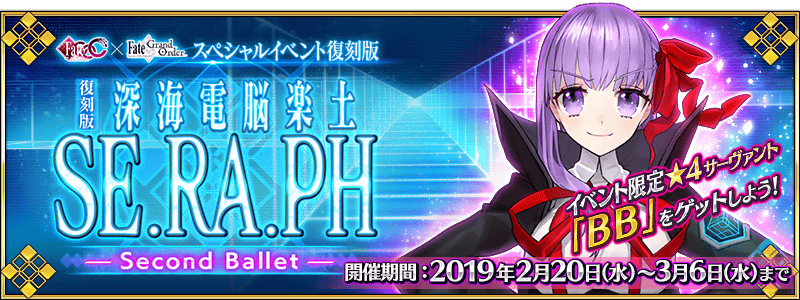
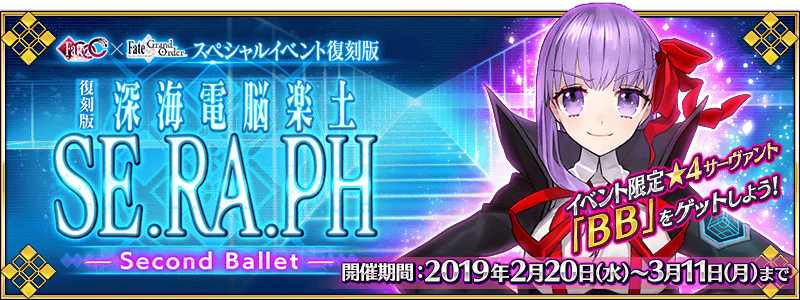
0304dlkai

diff --git a/event_re_extraccc.html b/event_re_extraccc.html
@@ -82,6 +82,13 @@
     background-color: #828282;
     border: none;
 }
+
+.attention_02{
+
+    padding: 1em 1em 0 1em;
+    border: solid 1.5px #DB0003;
+    margin: 10px;
+}
 </style>
 </head>
 <body onload="loadsidebar();">
@@ -118,7 +125,7 @@
 <div>
 <p>
 <span class="diamond">◆</span><span class="strong">活動舉辦期間</span><span class="diamond">◆</span><br/>
-<span class="em01">2019年2月20日(三) 17:00(預定)～3月6日(三) 11:59</span>
+<span class="em01">2019年2月20日(三) 17:00(預定)～<s>3月6日(三)</s> 3月11日(一) 11:59<br/>※3/4(一) 17:00修正</span>
 </p>
 <p>
 <span class="diamond">◆</span><span class="strong">活動概要</span><span class="diamond">◆</span><br/>
@@ -188,36 +195,36 @@
 自由關卡	
 </td>
 <td>2月20日(三) 17:00(預定)～
-<br/>3月6日(三) 11:59
+<br/><s>3月6日(三)</s> 3月11日(一) 11:59
 </td>
 </tr>
 <tr>
 <td>主線關卡第二幕<br/>
 自由關卡</td>
-<td>2月22日(五) 17:00～<br/>3月6日(三) 11:59
+<td>2月22日(五) 17:00～<br/><s>3月6日(三)</s> 3月11日(一) 11:59
 </td>
 </tr>
 <tr>
 <td>主線關卡第三幕<br/>
 自由關卡</td>
-<td>2月24日(日) 17:00～<br/>3月6日(三) 11:59
+<td>2月24日(日) 17:00～<br/><s>3月6日(三)</s> 3月11日(一) 11:59
 </td>
 </tr>
 <tr>
 <td>主線關卡第四幕～終幕<br/>自由關卡</td>
-<td>2月25日(一) 17:00～<br/>3月6日(三) 11:59
+<td>2月25日(一) 17:00～<br/><s>3月6日(三)</s> 3月11日(一) 11:59
 </td>
 </tr>
 <tr>
 <td>主線關卡後半<br/>自由關卡</td>
-<td>3月1日(五) 17:00～<br/>3月6日(三) 11:59
+<td>3月1日(五) 17:00～<br/><s>3月6日(三)</s> 3月11日(一) 11:59
 </td>
 </tr>
 </tbody>
 </table>
 </div>
 <div class="em01">
-<p>
+<p>※3/4(一) 17:00修正<br/><br/>
 <span class="notice">自2019年3月1日(五) 17:00會開放新的關卡與任務。</span><br/>
 新關卡與任務的開放條件為通過主線關卡至最後。
 </p>
@@ -308,7 +315,7 @@ BB拉霸會根據隨機連線的圖案，<span class="notice">在戰鬥賦予各
 <div>
 <p>
 <span class="diamond">◆</span><span class="strong">舉辦期間</span><span class="diamond">◆</span><br/>
-<span class="em01">2019年2月20日(三) 17:00(預定)～3月6日(三) 11:59</span>
+<span class="em01">2019年2月20日(三) 17:00(預定)～<s>3月6日(三)</s> 3月11日(一) 11:59<br/>※3/4(一) 17:00修正</span>
 </p>
 </div>
 <p>
@@ -460,7 +467,12 @@ BB拉霸會根據隨機連線的圖案，<span class="notice">在戰鬥賦予各
 <td>1個</td>
 </tr>
 <tr>
-<td bgcolor="#ECF2F3" rowspan="3">Alterego</td>
+<td bgcolor="#ECF2F3" rowspan="4">Alterego</td>
+<td class="servant_star">★★★★★</td>
+<td>帝王花</td>
+<td><span class="notice">2個</span></td>
+</tr>
+<tr>
 <td class="servant_star">★★★★★</td>
 <td>殺生院祈荒</td>
 <td><span class="notice">2個</span></td>
@@ -491,6 +503,7 @@ BB拉霸會根據隨機連線的圖案，<span class="notice">在戰鬥賦予各
 </div>
 <div class="em01">
 <p>
+<span class="indent">※2/27(三) 17:00更新</span>
 <span class="indent notice">
 ※就算成為對象Servant，也會有不在本活動主線劇本登場的情況。	
 </span>
@@ -553,12 +566,22 @@ BB拉霸會根據隨機連線的圖案，<span class="notice">在戰鬥賦予各
 <div>
 <p>
 <span class="diamond">◆</span><span class="strong">交換期間</span><span class="diamond">◆</span><br/>
-<span class="em01 notice">2019年2月20日(三) 17:00(預定)～3月13日(三) 11:59</span>
-<span class="em01">
+<span class="em01 notice">2019年2月20日(三) 17:00(預定)～<s>3月13日(三)</s> 3月18日(一) 11:59</span>
+<span class="em01">※3/4(一) 17:00修正<br/>
 <span class="indent">
 ※活動道具交換期間結束後「櫻硬幣」會消失。
 </span>
 </span>
+</p>
+</div>
+<div class="attention_02">
+<p>
+<span class="notice">【2月20日(三) 17:00追記】</span> <br/>
+確認到能用櫻硬幣交換道具的交換期間，沒有顯示上述3月18日(一) 11:59為止剩餘天數，而是顯示做為活動結束期間3月11日(一) 11:59為止剩餘天數的問題。
+</p>
+<p>
+<span class="indent">※能用櫻硬幣交換的道具以外的本活動専用關鍵道具，是在2019年3月11日(一) 11:59結束交換期間。</span><br/>
+※3/4(一) 17:00修正
 </p>
 </div>
 <div>
@@ -936,6 +959,27 @@ Code・Remover<br/>
 <p><img alt="" src="common/images/2019/re_extraccc_full_psruz/info_image_15.png"/></p>
 <br/>
 <!--/block-->
+<p class="heading" id="ttl17"><img alt="" src="common/images/2019/re_extraccc_full_psruz/midashi_b_05.png"/></p>
+<div class="em01">
+<p>
+【2月20日(三) 17:00追記】<br/>
+舉辦復刻活動中的「Fate/Grand Order -Epic of Remnant- 深海電腦樂土 SE.RA.PH」的漫畫在ヤングエースUP(KADOKAWA)開始配信！
+</p>
+<p>
+第0話在ヤングエースUP公開中！<br/>
+並且第1話預定2月26日(二)配信！	
+</p>
+</div>
+<p><img alt="" src="common/images/2019/re_extraccc_full_psruz/info_image_16.png"/></p>
+<p><img alt="" src="common/images/2019/re_extraccc_full_psruz/info_image_17.png"/></p>
+<div class="em01">
+<p>
+<span class="indent">■ヤングエースUP 「Fate/Grand Order -Epic of Remnant- 深海電腦樂土 SE.RA.PH」漫畫</span>
+<a href="https://web-ace.jp/special/youngaceup/contents/20190220/" target="_blank">https://web-ace.jp/special/youngaceup/contents/20190220/</a>
+</p>
+</div>
+<br/>
+<!--/block-->
 <hr/>
 <div class="em01">
 <p>
@@ -943,7 +987,8 @@ Code・Remover<br/>
 關於詳情請自下述橫幅確認。	
 </p>
 </div>
-<p><a href="gacha_re_extraccc_pu.html"><img alt="" src="common/images/2019/re_extraccc_pu_hgpca/summon_banner.png"/></a></p>
+<p><a href="gacha_re_extraccc_pu.html"><img alt="" src="common/images/2019/re_extraccc_pu_hgpca/summon_banner.png"/></a><br>
+<span class="em01">【3月4日(一) 17:00圖片更新】</span></p>
 </article>
 </div>
 <div id="gotop"><a href="#"><img src="common/images/btn_gotop_off.jpg" width="47" height="47" alt="返回頂端" /></a></div>

diff --git a/news_190304.html b/news_190304.html
@@ -4,7 +4,7 @@
 <meta http-equiv="Content-Type" content="text/html; charset=utf-8" />
 <meta name="description" content="Fate/Grand Order台灣中文資料站" />
 <meta name="keywords" content="Fate/Grand Order,FGO,Fate/GO,TYPE-MOON,Fate,Saber,Archer,Lancer,Rider,Caster,Assassin,Berserker,Shielder,Ruler" />
-<title>關於能用2月交換券(2019)交換的道具</title>
+<title>現在舉辦中的特別活動「復刻版:深海電腦樂土 SE.RA.PH -Second Ballet-」舉辦期間延長公告</title>
 <link rel="icon" href="favicon.ico" type="image/vnd.microsoft.icon">
 <link href="common/css/common.css" rel="stylesheet" type="text/css" />
 <link href="common/css/detail_info.css" rel="stylesheet" type="text/css" />
@@ -34,21 +34,30 @@
     <!--主要內容區塊開始-->
     <div id="div_content"><div class="container">
 <article class="content textsize" style="width:840px">
-<h1 class="headline3"><dl><dt class="date">1/31</dt><dd>關於能用2月交換券(2019)交換的道具</dd></dl></h1>
-<p>告知關於能用連續登入獎勵的2月交換券(2019)交換的道具。</p>
-<p>◆2月交換券(2019)配發期間◆<br/>
-2019年2月1日(五) AM3:00～2019年3月1日(五) AM2:59</p>
-<p>◆2月交換券(2019)的使用･領取期間◆<br/>
-2019年5月31日(五) 22:59<br/>
-※另外，請注意1月交換券(2019)的使用･領取期間為2018年4月30日(二) 22:59。</p>
-<p>◆能交換道具◆<br/>
-・禁斷書頁<br/>
-・兇骨<br/>
-・勵振火藥</p>
-<p>※請注意交換券有使用･領取期間。<br/>
-※能選擇的3種類素材每月替換。<br/>
-※如果持有數張相同月份的「交換券」，可以一起交換。<br/>
-※如果跨月自禮物箱領取前一個月的「交換券」，能獲得的素材會是「交換券」記載月份的對象素材。</p>
+<h1 class="headline3"><dl><dt class="date">3/4</dt><dd>現在舉辦中的特別活動「復刻版:深海電腦樂土 SE.RA.PH -Second Ballet-」舉辦期間延長公告</dd></dl></h1>
+<p>非常感謝您的使用。<br/> 
+這裡是「Fate/Grand Order」營運團隊。</p>
+
+<p>關於特別活動「復刻版:深海電腦樂土 SE.RA.PH -Second Ballet-」，有鑑於預訂下次舉的施策開發狀況，延長本活動的舉辦期間如下。</p>
+<p>■舉辦期間<br/>
+2019年2月20日(三) 17:00～<font color="#FF0000">3月11日(一) 11:59</font><br/>
+※遊戲內的顯示中，會有未變更結束時間的情況。<br/>
+　關於此處，會依序對應。</p>
+<p>※詳情請在特別活動「復刻版:深海電腦樂土 SE.RA.PH -Second Ballet-」的公告確認。<br/>
+<span class="strong"><a href="https://news.fate-go.jp/2019/re_extraccc/" target="_blank">https://news.fate-go.jp/2019/re_extraccc/</a></span></p>
+<p>對上述舉辦期間變更感到抱歉，會向對象的玩家做出以下對應。</p>
+<p>【對象】<br/>
+2019年3月4日(一) 16:59前有遊玩過「Fate/Grand Order」的所有玩家</p>
+<p>【對應內容】<br/>
+・聖晶石 3個<br/>
+・黃金果實 3個</p>
+<p>【配發方法】<br/>
+配發至禮物箱</p>
+<p>【配發期間】<br/>
+2019年3月5日(二) AM3:00～2019年8月31日(六) 22:59</p>
+<p>使用的各位玩家，在活動結束即將結束前突然變更舉辦期間，抱歉帶來不便。</p>
+
+<p>今後也請多多指教「Fate/Grand Order」。</p>
 </article>
 </div>
 <div id="gotop"><a href="#"><img src="common/images/btn_gotop_off.jpg" width="47" height="47" alt="返回頂端" /></a></div>

diff --git a/index.html b/index.html
@@ -69,7 +69,7 @@ $(function(){
 </p></dd></dl>
 
 <dl class="accordion"><dt class="act">
-<h1 class="headline5"><dl><dt class="date">★☆★</dt><dd>本週Master任務(2/17 23:00～2/24 22:59)<span class="arrowAC">&nbsp;</span></dd></dl></h1>
+<h1 class="headline5"><dl><dt class="date">★☆★</dt><dd>本週Master任務(3/4 23:00～3/10 22:59)<span class="arrowAC">&nbsp;</span></dd></dl></h1>
 </dt><dd class="acd"><p>
 <table class="tablesorter" style="width:95%">
 <tr><th>任務</th><th>獎勵</th></tr>
@@ -77,15 +77,15 @@ $(function(){
 </td><td><div class="itemST" style="background-image: url('common/images/icon/items/16.png')" title="聖晶片">x3</div></td></tr>
 <tr><td>No.2：執行30次友情點數召喚
 </td><td><div class="itemST" style="background-image: url('common/images/icon/items/16.png')" title="聖晶片">x3</div></td></tr>
-<tr><td>No.3：擊倒任15名『Saber』『Caster』職階的敵人(Servant及一部份Boss除外)
+<tr><td>No.3：擊倒8位Servant
 </td><td><div class="itemST" style="background-image: url('common/images/icon/items/16.png')" title="聖晶片">x3</div></td></tr>
-<tr><td>No.4：擊倒任15名『Archer』『Assassin』職階的敵人(Servant及一部份Boss除外)
+<tr><td>No.4：擊倒任15名『Saber』『Archer』『Lancer』職階的敵人(Servant及一部份Boss除外)
 </td><td><div class="itemST" style="background-image: url('common/images/icon/items/16.png')" title="聖晶片">x3</div></td></tr>
-<tr><td>No.5：擊倒任15名『Lancer』『Rider』『Berserker』職階的敵人(Servant及一部份Boss除外)
+<tr><td>No.5：擊倒任30名『Saber』『Archer』『Lancer』職階的敵人(Servant及一部份Boss除外)
 </td><td><div class="itemST" style="background-image: url('common/images/icon/items/16.png')" title="聖晶片">x3</div></td></tr>
-<tr><td>No.6：擊倒20名敵人(Servant及一部份Boss除外)
+<tr><td>No.6：擊倒任15名『Rider』『Caster』『Assassin』『Berserker』職階的敵人(Servant及一部份Boss除外)
 </td><td><div class="itemST" style="background-image: url('common/images/icon/items/16.png')" title="聖晶片">x3</div></td></tr>
-<tr><td>No.7：擊倒40名敵人(Servant及一部份Boss除外)
+<tr><td>No.7：擊倒任30名『Rider』『Caster』『Assassin』『Berserker』職階的敵人(Servant及一部份Boss除外)
 </td><td><div class="itemST" style="background-image: url('common/images/icon/items/16.png')" title="聖晶片">x3</div></td></tr>
 </table>
 </p></dd></dl>
@@ -128,8 +128,11 @@ $(function(){
 <div class="paragraph_details">
 <table class="noborder nopadding">
 <tr><td colspan=2>
+・<a href="news_190228.html">關於能用3月交換券(2019)交換的道具</a>
 </td><td colspan=2>
+・<a href="news_190304.html">特別活動舉辦期間延長公告</a>
 </td></tr>
+
 <tr><td width=200>
 ・<a href="news_190219.html">2/20維修公告</a>(12:00實施)
 </td><td width=200>

diff --git a/news_190228.html b/news_190228.html
@@ -4,7 +4,7 @@
 <meta http-equiv="Content-Type" content="text/html; charset=utf-8" />
 <meta name="description" content="Fate/Grand Order台灣中文資料站" />
 <meta name="keywords" content="Fate/Grand Order,FGO,Fate/GO,TYPE-MOON,Fate,Saber,Archer,Lancer,Rider,Caster,Assassin,Berserker,Shielder,Ruler" />
-<title>關於能用2月交換券(2019)交換的道具</title>
+<title>關於能用3月交換券(2019)交換的道具</title>
 <link rel="icon" href="favicon.ico" type="image/vnd.microsoft.icon">
 <link href="common/css/common.css" rel="stylesheet" type="text/css" />
 <link href="common/css/detail_info.css" rel="stylesheet" type="text/css" />
@@ -34,17 +34,17 @@
     <!--主要內容區塊開始-->
     <div id="div_content"><div class="container">
 <article class="content textsize" style="width:840px">
-<h1 class="headline3"><dl><dt class="date">1/31</dt><dd>關於能用2月交換券(2019)交換的道具</dd></dl></h1>
-<p>告知關於能用連續登入獎勵的2月交換券(2019)交換的道具。</p>
-<p>◆2月交換券(2019)配發期間◆<br/>
-2019年2月1日(五) AM3:00～2019年3月1日(五) AM2:59</p>
-<p>◆2月交換券(2019)的使用･領取期間◆<br/>
-2019年5月31日(五) 22:59<br/>
-※另外，請注意1月交換券(2019)的使用･領取期間為2018年4月30日(二) 22:59。</p>
+<h1 class="headline3"><dl><dt class="date">2/28</dt><dd>關於能用3月交換券(2019)交換的道具</dd></dl></h1>
+<p>告知關於能用連續登入獎勵的3月交換券(2019)交換的道具。</p>
+<p>◆3月交換券(2019)配發期間◆<br/>
+2019年3月1日(五) AM3:00～2019年4月1日(一) AM2:59</p>
+<p>◆3月交換券(2019)的使用･領取期間◆<br/>
+2019年6月30日(日) 22:59<br/>
+※另外，請注意2月交換券(2019)的使用･領取期間為2018年5月31日(五) 22:59。</p>
 <p>◆能交換道具◆<br/>
-・禁斷書頁<br/>
-・兇骨<br/>
-・勵振火藥</p>
+・隕蹄鐵<br/>
+・愚者之鎖<br/>
+・宵哭鐵樁</p>
 <p>※請注意交換券有使用･領取期間。<br/>
 ※能選擇的3種類素材每月替換。<br/>
 ※如果持有數張相同月份的「交換券」，可以一起交換。<br/>

diff --git a/gacha_re_extraccc_pu.html b/gacha_re_extraccc_pu.html
@@ -93,12 +93,13 @@
     <!--主要內容區塊開始-->
     <div id="div_content"><div class="container">
 <article class="content textsize" style="width:840px">
-<p><img alt="TOPバナー" height="300" src="common/images/2019/re_extraccc_pu_hgpca/summon_banner.png" width="800"/></p>
+<p><img alt="TOPバナー" height="300" src="common/images/2019/re_extraccc_pu_hgpca/summon_banner.png" width="800"/><br/>
+<span class="em01">【3月4日(一) 17:00圖片更新】</span></p>
 <!-- block -->
 <div>
 <p>
 <span class="diamond">◆</span><span class="strong">「復刻 Fate/EXTRA CCC特別活動Pick&#32;Up召喚(每日交替)」期間</span><span class="diamond">◆</span><br/>
-<span class="em01">期間:2019年2月20日(三) 17:00(預定)～3月6日(三) 11:59
+<span class="em01">期間:2019年2月20日(三) 17:00(預定)～<s>3月6日(三)</s> 3月11日(一) 11:59<br/>※3/4(一) 17:00修正
 </span>
 </p>
 </div>
@@ -214,7 +215,7 @@ Emiya〔Alter〕
 </tr>
 <tr>
 <td>3月3日(日) 23:00～<br/>
-3月6日(三) 11:59
+<s>3月6日(三)</s> 3月11日(一) 11:59<br/>
 </td>
 <td>Meltryllis<br/>
 鈴鹿御前<br/>
@@ -227,7 +228,7 @@ Passionlip
 </table>
 </div>
 <div class="em01">
-<p>
+<p>※3/4(一) 17:00修正<br/>
 <span class="indent notice">
 ※請注意會以每日交替變更Pick&#32;Up的Servant。	
 </span>

diff --git a/news_181231.html b/news_181231.html
@@ -35,7 +35,7 @@
     <div id="div_content"><div class="container">
 <article class="content textsize" style="width:840px">
 <h1 class="headline3"><dl><dt class="date">12/31</dt><dd>關於能用1月交換券(2019)交換的道具</dd></dl></h1>
-<p>告知關於能用連續登入獎勵的12月交換券(2018)交換的道具。</p>
+<p>告知關於能用連續登入獎勵的1月交換券(2019)交換的道具。</p>
 <p>◆1月交換券(2019)配發期間◆<br/>
 2019年1月1日(二) AM3:00～2019年2月1日(五) AM2:59</p>
 <p>◆1月交換券(2019)的使用･領取期間◆<br/>

diff --git a/news_190219.html b/news_190219.html
@@ -141,7 +141,7 @@
 聖晶石 5個</p>
 <p>【配發方法】<br/>
 配發至禮物箱</p>
-<p>【配布期間】<br/>
+<p>【配發期間】<br/>
 2019年2月21日(四) AM3:00～2019年7月31日(三) 22:59</p>
 
 
